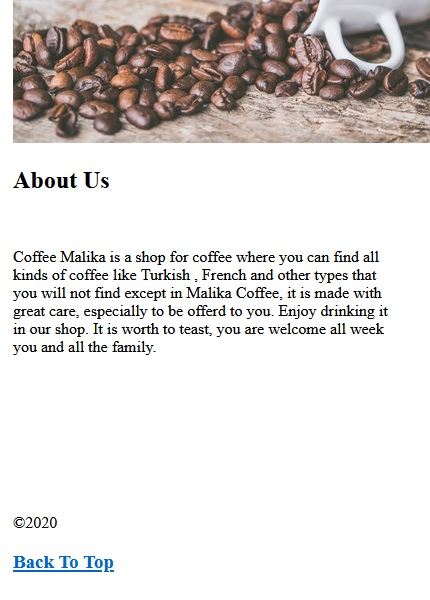
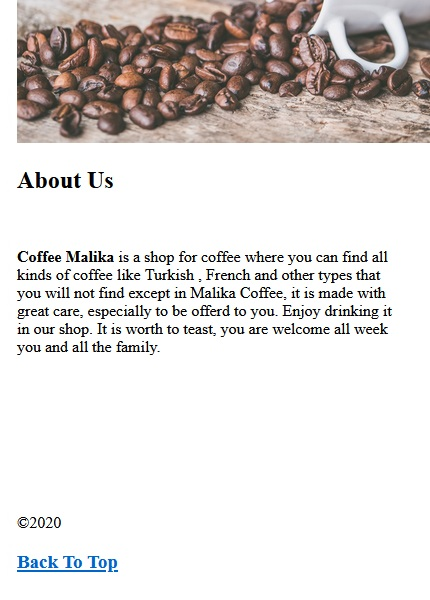
screenshots added

diff --git a/about.html b/about.html
@@ -25,7 +25,8 @@
   <h2>About Us</h2>
   <br />
   <p style="width:90%">
-    Coffee Malika is a shop for coffee where you can find all kinds of coffee like Turkish , French and other types that
+    <strong>Coffee Malika</strong> is a shop for coffee where you can find all kinds of coffee like Turkish , French and
+    other types that
     you will not find
     except in Malika Coffee, it is made with great care, especially to be offerd to you.
     Enjoy drinking it in our shop.
